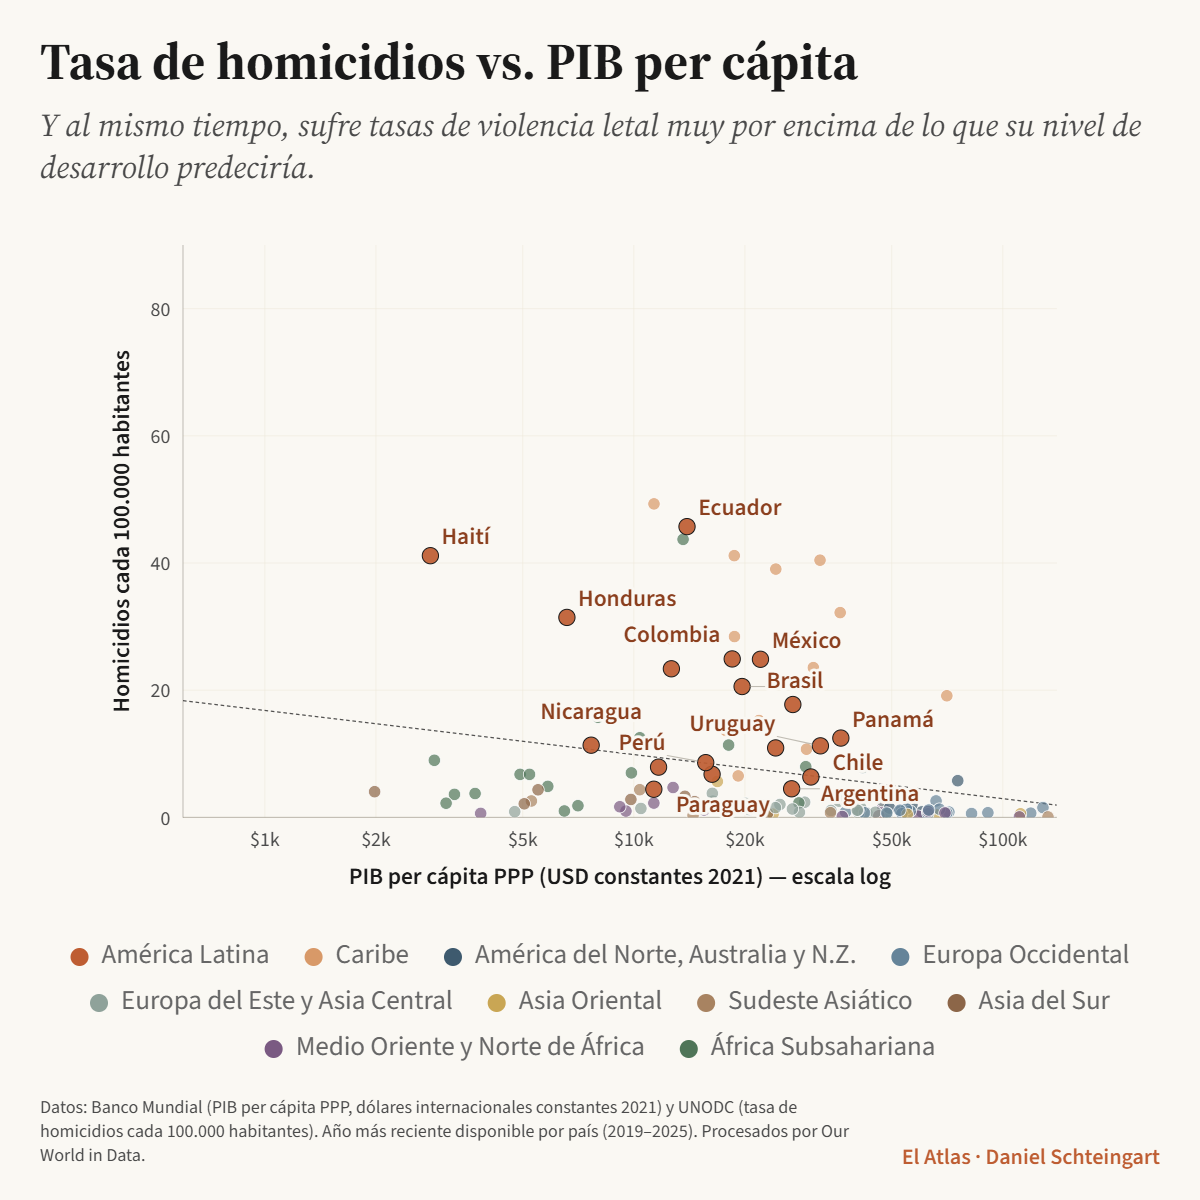
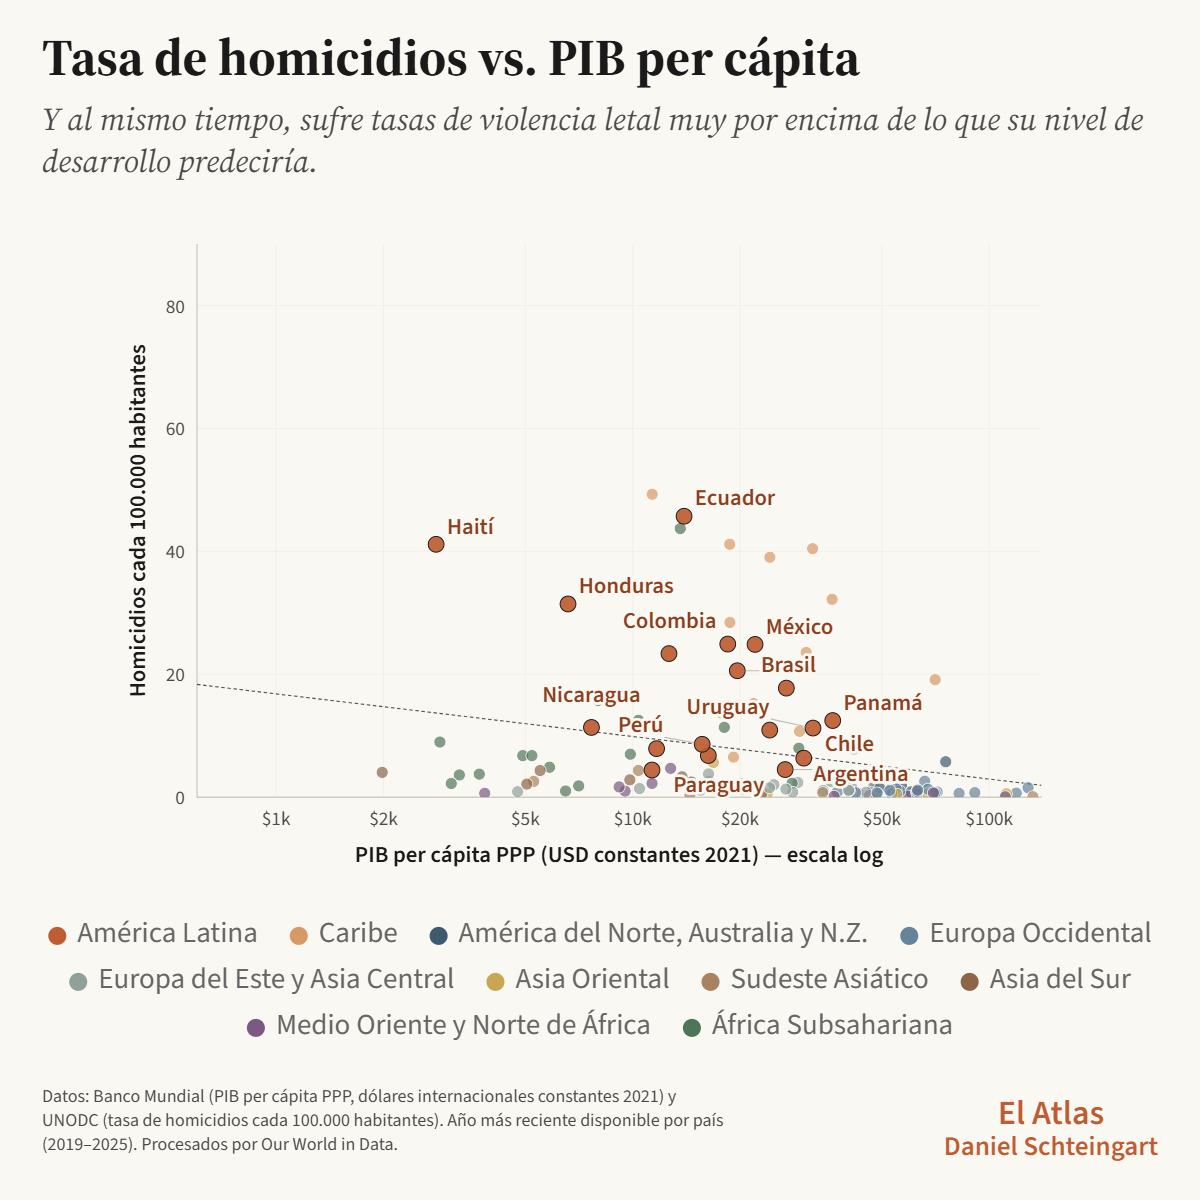
N1: thumbs EN enganchados + refresh de los ES; subtitulo neutral sin muletilla
- thumbs/chart-1/2/3.en.png (nuevos, 1200x1200, generados por Daniel con el
  chart en ingles) + refresh de los ES con los re-exports post-Fase 3b (firma
  en dos renglones, misma composicion que el resto del sitio).
- index.html / index-en.html: data-thumb-en en las 3 tarjetas y THUMB_V 1->2
  (fuerza recargar tambien los ES refrescados). Verificado: en EN las
  tarjetas muestran .en.png (cargan 1200px) y al togglear a ES vuelven los ES.
- chart-1/2/3-en.html + index-en.html: og:image/twitter:image ahora apuntan
  al thumb EN (el card social en ingles sale con el grafico en ingles).
- Subtitulos neutrales de los scatters sin la coletilla "pais por pais" /
  "country by country" (pedido de Daniel). Bump i18n-issue v25.

diff --git a/01-bienestar-violencia/index-en.html b/01-bienestar-violencia/index-en.html
@@ -9,19 +9,19 @@
 <!-- Open Graph / Twitter: preview del link al compartir (X, WhatsApp, etc.).
      URLs ABSOLUTAS. Idioma del preview = inglés (meta estáticas; el crawler no
      ejecuta JS ni lee ?lang).
-     NOTA: og:image usa el thumb ES (el N°1 aún no tiene chart-1.en.png). -->
+ -->
 <meta property="og:type" content="website">
 <meta property="og:site_name" content="The Atlas · Mapping development">
 <meta property="og:locale" content="en_US">
 <meta property="og:url" content="https://dschteingart.github.io/el-atlas-charts/01-bienestar-violencia/index-en.html">
 <meta property="og:title" content="Happier than it should be, more violent than tolerable — The Atlas N°1">
 <meta property="og:description" content="Latin America deviates from the world in two directions at once.">
-<meta property="og:image" content="https://dschteingart.github.io/el-atlas-charts/01-bienestar-violencia/thumbs/chart-1.png">
+<meta property="og:image" content="https://dschteingart.github.io/el-atlas-charts/01-bienestar-violencia/thumbs/chart-1.en.png">
 <meta property="og:image:alt" content="Subjective wellbeing against GDP per capita, country by country">
 <meta name="twitter:card" content="summary_large_image">
 <meta name="twitter:title" content="Happier than it should be, more violent than tolerable — The Atlas N°1">
 <meta name="twitter:description" content="Latin America deviates from the world in two directions at once.">
-<meta name="twitter:image" content="https://dschteingart.github.io/el-atlas-charts/01-bienestar-violencia/thumbs/chart-1.png">
+<meta name="twitter:image" content="https://dschteingart.github.io/el-atlas-charts/01-bienestar-violencia/thumbs/chart-1.en.png">
 
 <link rel="preconnect" href="https://fonts.googleapis.com">
 <link rel="preconnect" href="https://fonts.gstatic.com" crossorigin>
@@ -109,21 +109,21 @@
   <div class="idx-grid">
 
     <a class="idx-card" href="./chart-1.html?lang=en">
-      <img class="idx-thumb" src="./thumbs/chart-1.png" data-thumb-es="./thumbs/chart-1.png" alt="" loading="lazy" onerror="this.remove()">
+      <img class="idx-thumb" src="./thumbs/chart-1.png" data-thumb-es="./thumbs/chart-1.png" data-thumb-en="./thumbs/chart-1.en.png" alt="" loading="lazy" onerror="this.remove()">
       <span class="idx-card-num">Chart 1</span>
       <h2 data-i18n="c1-title">Subjective wellbeing vs. GDP per capita</h2>
       <span class="idx-card-go" data-i18n="index-see">See chart →</span>
     </a>
 
     <a class="idx-card" href="./chart-2.html?lang=en">
-      <img class="idx-thumb" src="./thumbs/chart-2.png" data-thumb-es="./thumbs/chart-2.png" alt="" loading="lazy" onerror="this.remove()">
+      <img class="idx-thumb" src="./thumbs/chart-2.png" data-thumb-es="./thumbs/chart-2.png" data-thumb-en="./thumbs/chart-2.en.png" alt="" loading="lazy" onerror="this.remove()">
       <span class="idx-card-num">Chart 2</span>
       <h2 data-i18n="c2-title">Homicide rate vs. GDP per capita</h2>
       <span class="idx-card-go" data-i18n="index-see">See chart →</span>
     </a>
 
     <a class="idx-card" href="./chart-3.html?lang=en">
-      <img class="idx-thumb" src="./thumbs/chart-3.png" data-thumb-es="./thumbs/chart-3.png" alt="" loading="lazy" onerror="this.remove()">
+      <img class="idx-thumb" src="./thumbs/chart-3.png" data-thumb-es="./thumbs/chart-3.png" data-thumb-en="./thumbs/chart-3.en.png" alt="" loading="lazy" onerror="this.remove()">
       <span class="idx-card-num">Chart 3</span>
       <h2 data-i18n="c3-title">A gap that won’t close</h2>
       <span class="idx-card-go" data-i18n="index-see">See chart →</span>
@@ -139,12 +139,12 @@
 
 <script src="../lib/regions.js"></script>
 <script src="../lib/i18n.js"></script>
-<script src="./i18n-issue.js?v=24"></script>
+<script src="./i18n-issue.js?v=25"></script>
 <script src="../lib/utils.js?v=4"></script>
 <script>
   // Miniaturas por idioma: cada tarjeta trae data-thumb-es (y data-thumb-en si
   // existe la versión EN — el N°1 aún no la tiene, así que se muestra la ES).
-  var THUMB_V = '1';
+  var THUMB_V = '2';
   function applyThumbLang() {
     var en = (typeof LANG !== 'undefined' && LANG === 'en');
     document.querySelectorAll('.idx-thumb').forEach(function (img) {

diff --git a/01-bienestar-violencia/index.html b/01-bienestar-violencia/index.html
@@ -108,21 +108,21 @@
   <div class="idx-grid">
 
     <a class="idx-card" href="./chart-1.html">
-      <img class="idx-thumb" src="./thumbs/chart-1.png" data-thumb-es="./thumbs/chart-1.png" alt="" loading="lazy" onerror="this.remove()">
+      <img class="idx-thumb" src="./thumbs/chart-1.png" data-thumb-es="./thumbs/chart-1.png" data-thumb-en="./thumbs/chart-1.en.png" alt="" loading="lazy" onerror="this.remove()">
       <span class="idx-card-num">Gráfico 1</span>
       <h2 data-i18n="c1-title">Bienestar subjetivo vs. PIB per cápita</h2>
       <span class="idx-card-go" data-i18n="index-see">Ver gráfico →</span>
     </a>
 
     <a class="idx-card" href="./chart-2.html">
-      <img class="idx-thumb" src="./thumbs/chart-2.png" data-thumb-es="./thumbs/chart-2.png" alt="" loading="lazy" onerror="this.remove()">
+      <img class="idx-thumb" src="./thumbs/chart-2.png" data-thumb-es="./thumbs/chart-2.png" data-thumb-en="./thumbs/chart-2.en.png" alt="" loading="lazy" onerror="this.remove()">
       <span class="idx-card-num">Gráfico 2</span>
       <h2 data-i18n="c2-title">Tasa de homicidios vs. PIB per cápita</h2>
       <span class="idx-card-go" data-i18n="index-see">Ver gráfico →</span>
     </a>
 
     <a class="idx-card" href="./chart-3.html">
-      <img class="idx-thumb" src="./thumbs/chart-3.png" data-thumb-es="./thumbs/chart-3.png" alt="" loading="lazy" onerror="this.remove()">
+      <img class="idx-thumb" src="./thumbs/chart-3.png" data-thumb-es="./thumbs/chart-3.png" data-thumb-en="./thumbs/chart-3.en.png" alt="" loading="lazy" onerror="this.remove()">
       <span class="idx-card-num">Gráfico 3</span>
       <h2 data-i18n="c3-title">La distancia que no se cierra</h2>
       <span class="idx-card-go" data-i18n="index-see">Ver gráfico →</span>
@@ -138,14 +138,14 @@
 
 <script src="../lib/regions.js"></script>
 <script src="../lib/i18n.js"></script>
-<script src="./i18n-issue.js?v=24"></script>
+<script src="./i18n-issue.js?v=25"></script>
 <script src="../lib/utils.js?v=4"></script>
 <script>
   // Miniaturas por idioma: cada tarjeta trae data-thumb-es (y data-thumb-en si
   // existe la versión EN — el N°1 aún no la tiene, así que en inglés se muestra
   // la ES). THUMB_V: cache-busting; al re-exportar un thumbnail se sobrescribe
   // el MISMO archivo y bumpear este número fuerza recargarlos.
-  var THUMB_V = '1';
+  var THUMB_V = '2';
   function applyThumbLang() {
     var en = (typeof LANG !== 'undefined' && LANG === 'en');
     document.querySelectorAll('.idx-thumb').forEach(function (img) {

diff --git a/01-bienestar-violencia/i18n-issue.js b/01-bienestar-violencia/i18n-issue.js
@@ -25,11 +25,11 @@ const ISSUE_I18N = {
     // filtra regiones o selecciona países, el texto pasa a descriptivo (patrón
     // "insight por default, neutral al customizar", como el deciles del N°2).
     'c1-title-neutral':    'Bienestar subjetivo vs. PIB per cápita',
-    'c1-subtitle-neutral': 'Satisfacción con la vida (0–10) frente al PIB per cápita PPA, país por país.',
+    'c1-subtitle-neutral': 'Satisfacción con la vida (0–10) frente al PIB per cápita PPA.',
     'c2-title':    'Tasa de homicidios vs. PIB per cápita',
     'c2-subtitle': 'Y al mismo tiempo, sufre tasas de violencia letal muy por encima de lo que su nivel de desarrollo predeciría.',
     'c2-title-neutral':    'Tasa de homicidios vs. PIB per cápita',
-    'c2-subtitle-neutral': 'Homicidios cada 100.000 habitantes frente al PIB per cápita PPA, país por país.',
+    'c2-subtitle-neutral': 'Homicidios cada 100.000 habitantes frente al PIB per cápita PPA.',
     'c3-title':    'La distancia que no se cierra',
     'c3-subtitle': 'Mientras el mundo redujo su tasa de homicidios un 25% en dos décadas, América Latina y el Caribe permanece estancada en niveles que casi cuadruplican el promedio global.',
     'c3-title-neutral':    'La tasa de homicidios por región',
@@ -70,11 +70,11 @@ const ISSUE_I18N = {
     'c1-title':    'Subjective wellbeing vs. GDP per capita',
     'c1-subtitle': 'Latin American countries report, on average, more life satisfaction than their income level would predict.',
     'c1-title-neutral':    'Subjective wellbeing vs. GDP per capita',
-    'c1-subtitle-neutral': 'Life satisfaction (0\u201310) against GDP per capita PPP, country by country.',
+    'c1-subtitle-neutral': 'Life satisfaction (0\u201310) against GDP per capita PPP.',
     'c2-title':    'Homicide rate vs. GDP per capita',
     'c2-subtitle': 'And at the same time, the region suffers homicide rates far above what its income level would predict.',
     'c2-title-neutral':    'Homicide rate vs. GDP per capita',
-    'c2-subtitle-neutral': 'Homicides per 100,000 people against GDP per capita PPP, country by country.',
+    'c2-subtitle-neutral': 'Homicides per 100,000 people against GDP per capita PPP.',
     'c3-title':    'A gap that won\u2019t close',
     'c3-subtitle': 'While the world cut its homicide rate by 25% over two decades, Latin America and the Caribbean remains stuck at levels nearly four times the global average.',
     'c3-title-neutral':    'Homicide rate by region',

diff --git a/01-bienestar-violencia/chart-3-en.html b/01-bienestar-violencia/chart-3-en.html
@@ -9,21 +9,19 @@
 
 <!-- Página-landing EN para compartir: el crawler de X/Substack lee este OG ESTÁTICO (en inglés)
      y arma el card; al humano lo manda al gráfico real renderizado en inglés (chart-3.html?lang=en,
-     idioma que el runtime aplica solo). Así no duplicamos el cuerpo del gráfico.
-     NOTA: og:image apunta al thumb ES (el N°1 todavía no tiene chart-3.en.png). La imagen del
-     gráfico se entiende igual; cuando exista el thumb EN, cambiar a thumbs/chart-3.en.png. -->
+     idioma que el runtime aplica solo). Así no duplicamos el cuerpo del gráfico. -->
 <meta property="og:type" content="website">
 <meta property="og:site_name" content="The Atlas · Mapping development">
 <meta property="og:locale" content="en_US">
 <meta property="og:url" content="https://dschteingart.github.io/el-atlas-charts/01-bienestar-violencia/chart-3-en.html">
 <meta property="og:title" content="A gap that won’t close — The Atlas N°1">
 <meta property="og:description" content="While the world cut its homicide rate by 25% over two decades, Latin America and the Caribbean remains stuck at levels nearly four times the global average.">
-<meta property="og:image" content="https://dschteingart.github.io/el-atlas-charts/01-bienestar-violencia/thumbs/chart-3.png">
+<meta property="og:image" content="https://dschteingart.github.io/el-atlas-charts/01-bienestar-violencia/thumbs/chart-3.en.png">
 <meta property="og:image:alt" content="Homicide rate over time, by region">
 <meta name="twitter:card" content="summary_large_image">
 <meta name="twitter:title" content="A gap that won’t close — The Atlas N°1">
 <meta name="twitter:description" content="While the world cut its homicide rate by 25% over two decades, Latin America and the Caribbean remains stuck at levels nearly four times the global average.">
-<meta name="twitter:image" content="https://dschteingart.github.io/el-atlas-charts/01-bienestar-violencia/thumbs/chart-3.png">
+<meta name="twitter:image" content="https://dschteingart.github.io/el-atlas-charts/01-bienestar-violencia/thumbs/chart-3.en.png">
 
 <!-- Redirección SOLO por JS: los crawlers (Twitterbot, facebookexternalhit, Slackbot, Substack)
      leen el <head> estático y NO ejecutan esto → ven el card en inglés. Un humano va al gráfico. -->

diff --git a/01-bienestar-violencia/chart-1-en.html b/01-bienestar-violencia/chart-1-en.html
@@ -9,21 +9,19 @@
 
 <!-- Página-landing EN para compartir: el crawler de X/Substack lee este OG ESTÁTICO (en inglés)
      y arma el card; al humano lo manda al gráfico real renderizado en inglés (chart-1.html?lang=en,
-     idioma que el runtime aplica solo). Así no duplicamos el cuerpo del gráfico.
-     NOTA: og:image apunta al thumb ES (el N°1 todavía no tiene chart-1.en.png). La imagen del
-     gráfico se entiende igual; cuando exista el thumb EN, cambiar a thumbs/chart-1.en.png. -->
+     idioma que el runtime aplica solo). Así no duplicamos el cuerpo del gráfico. -->
 <meta property="og:type" content="website">
 <meta property="og:site_name" content="The Atlas · Mapping development">
 <meta property="og:locale" content="en_US">
 <meta property="og:url" content="https://dschteingart.github.io/el-atlas-charts/01-bienestar-violencia/chart-1-en.html">
 <meta property="og:title" content="Subjective wellbeing vs. GDP per capita — The Atlas N°1">
 <meta property="og:description" content="Latin American countries report, on average, more life satisfaction than their income level would predict.">
-<meta property="og:image" content="https://dschteingart.github.io/el-atlas-charts/01-bienestar-violencia/thumbs/chart-1.png">
+<meta property="og:image" content="https://dschteingart.github.io/el-atlas-charts/01-bienestar-violencia/thumbs/chart-1.en.png">
 <meta property="og:image:alt" content="Subjective wellbeing against GDP per capita, country by country">
 <meta name="twitter:card" content="summary_large_image">
 <meta name="twitter:title" content="Subjective wellbeing vs. GDP per capita — The Atlas N°1">
 <meta name="twitter:description" content="Latin American countries report, on average, more life satisfaction than their income level would predict.">
-<meta name="twitter:image" content="https://dschteingart.github.io/el-atlas-charts/01-bienestar-violencia/thumbs/chart-1.png">
+<meta name="twitter:image" content="https://dschteingart.github.io/el-atlas-charts/01-bienestar-violencia/thumbs/chart-1.en.png">
 
 <!-- Redirección SOLO por JS: los crawlers (Twitterbot, facebookexternalhit, Slackbot, Substack)
      leen el <head> estático y NO ejecutan esto → ven el card en inglés. Un humano va al gráfico. -->

diff --git a/01-bienestar-violencia/chart-2-en.html b/01-bienestar-violencia/chart-2-en.html
@@ -9,21 +9,19 @@
 
 <!-- Página-landing EN para compartir: el crawler de X/Substack lee este OG ESTÁTICO (en inglés)
      y arma el card; al humano lo manda al gráfico real renderizado en inglés (chart-2.html?lang=en,
-     idioma que el runtime aplica solo). Así no duplicamos el cuerpo del gráfico.
-     NOTA: og:image apunta al thumb ES (el N°1 todavía no tiene chart-2.en.png). La imagen del
-     gráfico se entiende igual; cuando exista el thumb EN, cambiar a thumbs/chart-2.en.png. -->
+     idioma que el runtime aplica solo). Así no duplicamos el cuerpo del gráfico. -->
 <meta property="og:type" content="website">
 <meta property="og:site_name" content="The Atlas · Mapping development">
 <meta property="og:locale" content="en_US">
 <meta property="og:url" content="https://dschteingart.github.io/el-atlas-charts/01-bienestar-violencia/chart-2-en.html">
 <meta property="og:title" content="Homicide rate vs. GDP per capita — The Atlas N°1">
 <meta property="og:description" content="And at the same time, the region suffers homicide rates far above what its income level would predict.">
-<meta property="og:image" content="https://dschteingart.github.io/el-atlas-charts/01-bienestar-violencia/thumbs/chart-2.png">
+<meta property="og:image" content="https://dschteingart.github.io/el-atlas-charts/01-bienestar-violencia/thumbs/chart-2.en.png">
 <meta property="og:image:alt" content="Homicide rate against GDP per capita, country by country">
 <meta name="twitter:card" content="summary_large_image">
 <meta name="twitter:title" content="Homicide rate vs. GDP per capita — The Atlas N°1">
 <meta name="twitter:description" content="And at the same time, the region suffers homicide rates far above what its income level would predict.">
-<meta name="twitter:image" content="https://dschteingart.github.io/el-atlas-charts/01-bienestar-violencia/thumbs/chart-2.png">
+<meta name="twitter:image" content="https://dschteingart.github.io/el-atlas-charts/01-bienestar-violencia/thumbs/chart-2.en.png">
 
 <!-- Redirección SOLO por JS: los crawlers (Twitterbot, facebookexternalhit, Slackbot, Substack)
      leen el <head> estático y NO ejecutan esto → ven el card en inglés. Un humano va al gráfico. -->

diff --git a/01-bienestar-violencia/chart-3.html b/01-bienestar-violencia/chart-3.html
@@ -87,7 +87,7 @@
 
 <script src="../lib/regions.js"></script>
 <script src="../lib/i18n.js"></script>
-<script src="./i18n-issue.js?v=24"></script>
+<script src="./i18n-issue.js?v=25"></script>
 <script src="../lib/utils.js?v=4"></script>
 <script src="../lib/editor.js?v=2"></script>
 <script src="./data-timeseries.js?v=22"></script>

diff --git a/01-bienestar-violencia/chart-1.html b/01-bienestar-violencia/chart-1.html
@@ -80,7 +80,7 @@
 
 <script src="../lib/regions.js"></script>
 <script src="../lib/i18n.js"></script>
-<script src="./i18n-issue.js?v=24"></script>
+<script src="./i18n-issue.js?v=25"></script>
 <script src="../lib/utils.js?v=4"></script>
 <script src="../lib/editor.js?v=2"></script>
 <script src="./data-scatter.js?v=22"></script>

diff --git a/01-bienestar-violencia/chart-2.html b/01-bienestar-violencia/chart-2.html
@@ -87,7 +87,7 @@
 
 <script src="../lib/regions.js"></script>
 <script src="../lib/i18n.js"></script>
-<script src="./i18n-issue.js?v=24"></script>
+<script src="./i18n-issue.js?v=25"></script>
 <script src="../lib/utils.js?v=4"></script>
 <script src="../lib/editor.js?v=2"></script>
 <script src="./data-scatter.js?v=22"></script>
